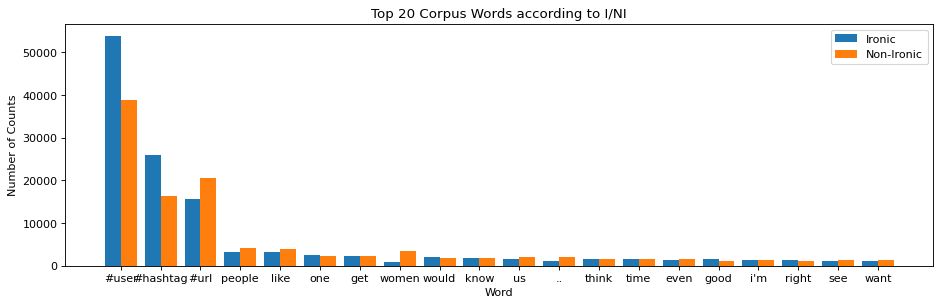
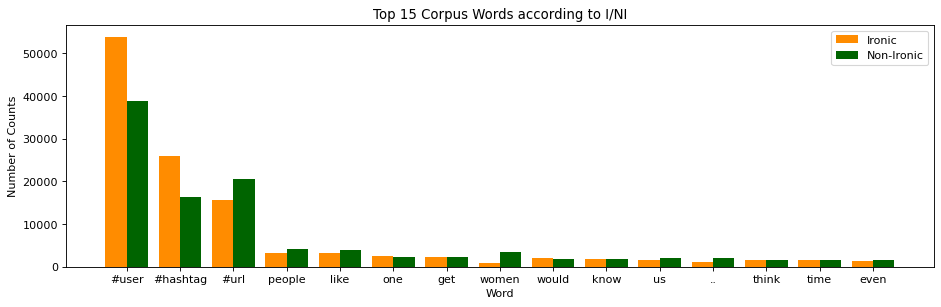
Added Odd Logs and updated colors

diff --git a/test_classifier.py b/test_classifier.py
@@ -1,6 +1,9 @@
 from classifier_methods import *
 from utils import * 
 from sklearn.model_selection import train_test_split
+import matplotlib.pyplot as plt
+import heapq
+from scipy.special import softmax
 import json
 
 X, y, USERCODE_X, lang = load_dataset(os.path.join(os.getcwd(),"data","en"))
@@ -54,10 +57,61 @@ def tune_params():
 rfc, *settings = train_model(X_train, y_train, classifier_class=RandomForestClassifier(), emoji_pca_dim=4, profanity_pca_dim=14, word_pca_dim=20, label="Test", verbose=False)
 X_test_features = get_features_test(X_test, *settings)
 
+log_reg, *settings = train_model(X_train, y_train, classifier_class=make_pipeline(StandardScaler(), LogisticRegression()), emoji_pca_dim=4, profanity_pca_dim=14, word_pca_dim=20, label="Test", verbose=False)
+
 #svmc_predictions, _, svmc = generate_features_train_predict(X_train, y_train, X_test, classifier_class=make_pipeline(StandardScaler(), svm.SVC(gamma="auto")), emoji_pca_dim=4, profanity_pca_dim=14, word_pca_dim=20, label="Test", verbose=False)
 #logregc_predictions, _, logregc = generate_features_train_predict(X_train, y_train, X_test, classifier_class=make_pipeline(StandardScaler(), LogisticRegression()), emoji_pca_dim=4, profanity_pca_dim=14, word_pca_dim=20, label="Test", verbose=False)
+feature_names = [ 
+    "ADJ","ADP","ADV","CONJ","DET",#"NOUN",
+    "NUM","PRT","PRON","VERB",
+    #"PUNCT",
+    #"UNK",
+    "auth_vocabsize","type_token_rt","avg_author_word_length","avg_tweet_length","avg_author_hashtag_count",
+    "avg_author_usertag_count","avg_author_urltag_count","author_avg_emoji","avg_capital_lower_ratio",
+    "pos", "neut", "neg", "compound",
+    "mult-ex", "mult-qu", "mult-pe", "quote", "ex", "qu", "pe",
+    "LiXScore",
+    "emoji_pca_1", "emoji_pca_2", "emoji_pca_3", "emoji_pca_4",
+    "profanity_pca_1", "profanity_pca_2", "profanity_pca_3", "profanity_pca_4", "profanity_pca_5", 
+    "profanity_pca_6","profanity_pca_7", "profanity_pca_8","profanity_pca_9","profanity_pca_10",
+    "profanity_pca_11","profanity_pca_12","profanity_pca_13","profanity_pca_14",
+    "word_pca1","word_pca2","word_pca3", "word_pca4", "word_pca5", "word_pca6", "word_pca7", "word_pca8",
+    "word_pca9", "word_pca10", "word_pca11", "word_pca12", "word_pca13", "word_pca14","word_pca15","word_pca16",
+    "word_pca17", "word_pca18" , "word_pca19", "word_pca20"
+    ]
+
+softmax_coef = softmax(log_reg[1].coef_[0])
+heap = []
+for i in range(len(feature_names)):
+    heapq.heappush(heap, ((softmax_coef[i],feature_names[i])))
+scores, words = [s for (s,w) in heapq.nlargest(40,heap)], [w for (s,w) in heapq.nlargest(40,heap)]
+plt.bar(words, scores)
+plt.title("Top Words Summing PCA weights (70%) train data")
+plt.ylabel("Weight Summed (Softmaxed)")
+plt.xticks(words, rotation=90)
+plt.tight_layout()
+plt.show()
+
+pca_words = settings[2]
+tf_idf_words = settings[5]
+heap_word = []
+zero_pca = np.zeros(len(pca_words.components_[0]))
+for pca_vec in pca_words.components_:
+    softmax_pca_vec = softmax(pca_vec)
+    zero_pca += softmax_pca_vec
+for i in range(len(softmax_pca_vec)):
+    heapq.heappush(heap_word, ((softmax_pca_vec[i],tf_idf_words.word_dict[i])))
+scores, words = [s for (s,w) in heapq.nlargest(40,heap_word)], [w for (s,w) in heapq.nlargest(40,heap_word)]
+plt.bar(words, scores)
+plt.title("Top Words Summing PCA weights (70%) train data")
+plt.ylabel("Weight Summed (Softmaxed)")
+plt.xticks(words, rotation=90)
+plt.tight_layout()
+plt.show()
+
 rfc_predictions_prob = rfc.predict_proba(X_test_features)
 rfc_predictions = rfc.predict(X_test_features)
+
 error_mask = y_test!=rfc_predictions
 print(y_test[error_mask])
 print(rfc_predictions_prob[error_mask])

diff --git a/classifier_methods.py b/classifier_methods.py
@@ -544,7 +544,7 @@ def cross_validate(X, y, split_n=7, emoji_pca_dim=4, profanity_pca_dim=14, word_
             print(f"Random Forest Classifier acc (Test): {acc_test:.4f}")
 
         if one_nn:
-            clf_nn1 = KNeighborsClassifier(n_neighbors=1)
+            clf_nn1 =make_pipeline(StandardScaler(), KNeighborsClassifier(n_neighbors=1))
             clf_nn1.fit(X_train, y_train)
             y_test_pred, y_train_pred = clf_nn1.predict(
                 X_test), clf_nn1.predict(X_train)
@@ -558,7 +558,7 @@ def cross_validate(X, y, split_n=7, emoji_pca_dim=4, profanity_pca_dim=14, word_
             print(f"1-NN (Test)     : {acc_test:.4f}")
 
         if three_nn:
-            clf_nn3 = KNeighborsClassifier(n_neighbors=3)
+            clf_nn3 = make_pipeline(StandardScaler(), KNeighborsClassifier(n_neighbors=3))
             clf_nn3.fit(X_train, y_train)
             y_test_pred, y_train_pred = clf_nn3.predict(
                 X_test), clf_nn3.predict(X_train)
@@ -572,7 +572,7 @@ def cross_validate(X, y, split_n=7, emoji_pca_dim=4, profanity_pca_dim=14, word_
             print(f"3-NN (Test)     : {acc_test:.4f}")
 
         if five_nn:
-            clf_nn5 = KNeighborsClassifier(n_neighbors=5)
+            clf_nn5 = make_pipeline(StandardScaler(), KNeighborsClassifier(n_neighbors=5))
             clf_nn5.fit(X_train, y_train)
             y_test_pred, y_train_pred = clf_nn5.predict(
                 X_test), clf_nn5.predict(X_train)

diff --git a/no_features.py b/no_features.py
@@ -73,10 +73,10 @@ if __name__ == "__main__":
 
     X_train, X_test, y_train, y_test = train_test_split(X, y, test_size=0.3, random_state=1)
     # make_pipeline(StandardScaler(), LogisticRegression()) RandomForestClassifier() make_pipeline(StandardScaler(), svm.SVC(gamma="auto"))
-    forest , emoji_pca, profanity_pca, word_pca, emoji_tfidf, profanity_tfidf, words_tfidf, X_train_features = cm.train_model(X_train, y_train, make_pipeline(RandomForestClassifier()))
+    forest , *settings, X_train_features = cm.train_model(X_train, y_train, make_pipeline(RandomForestClassifier()))
 
     
-    X_test_features = cm.get_features_test(X_test,emoji_pca, profanity_pca, word_pca, emoji_tfidf, profanity_tfidf, words_tfidf)
+    X_test_features = cm.get_features_test(X_test, *settings)
     predict = forest.predict(X_test_features)
     print((y_test==predict).sum()/len(y_test))
     start_time = time.time()
